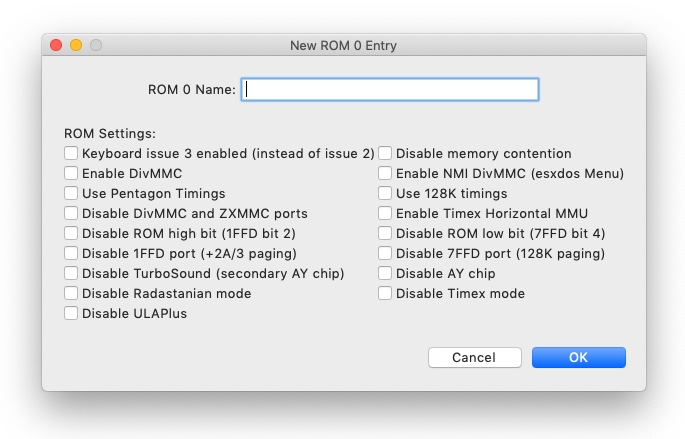
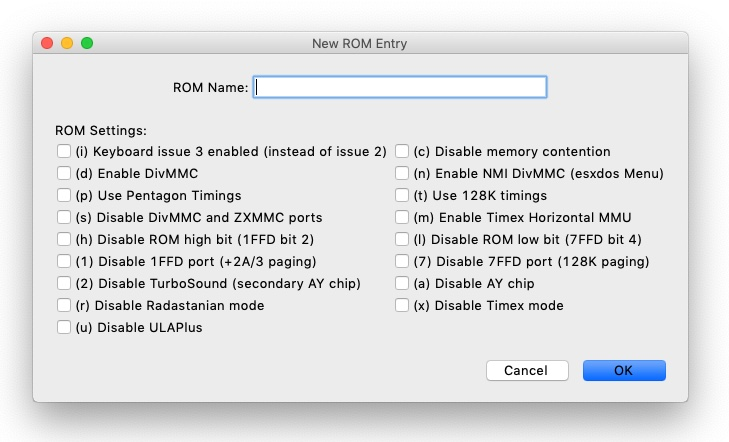
Added key texts to ROM entry Window

Changed region(s): [[0.0307, 0.1777, 0.9504, 0.9476], [0.0307, 0.0592, 0.9504, 0.2369]]

diff --git a/zx123_tool_gui/_extra_gui.py b/zx123_tool_gui/_extra_gui.py
@@ -76,9 +76,10 @@ class NewEntryDialog:
             if b_alt:
                 self.dict_rom_params['*'] = 'Rooted ROM'
             for index, key in enumerate(self.dict_rom_params):
+                str_check = f'({key}) {self.dict_rom_params[key]}'
                 self.extra_vars.append(tk.IntVar())
                 check_1 = ttk.Checkbutton(extra_frame,
-                                          text=self.dict_rom_params[key],
+                                          text=str_check,
                                           variable=self.extra_vars[index],
                                           onvalue=1,
                                           offvalue=0)
